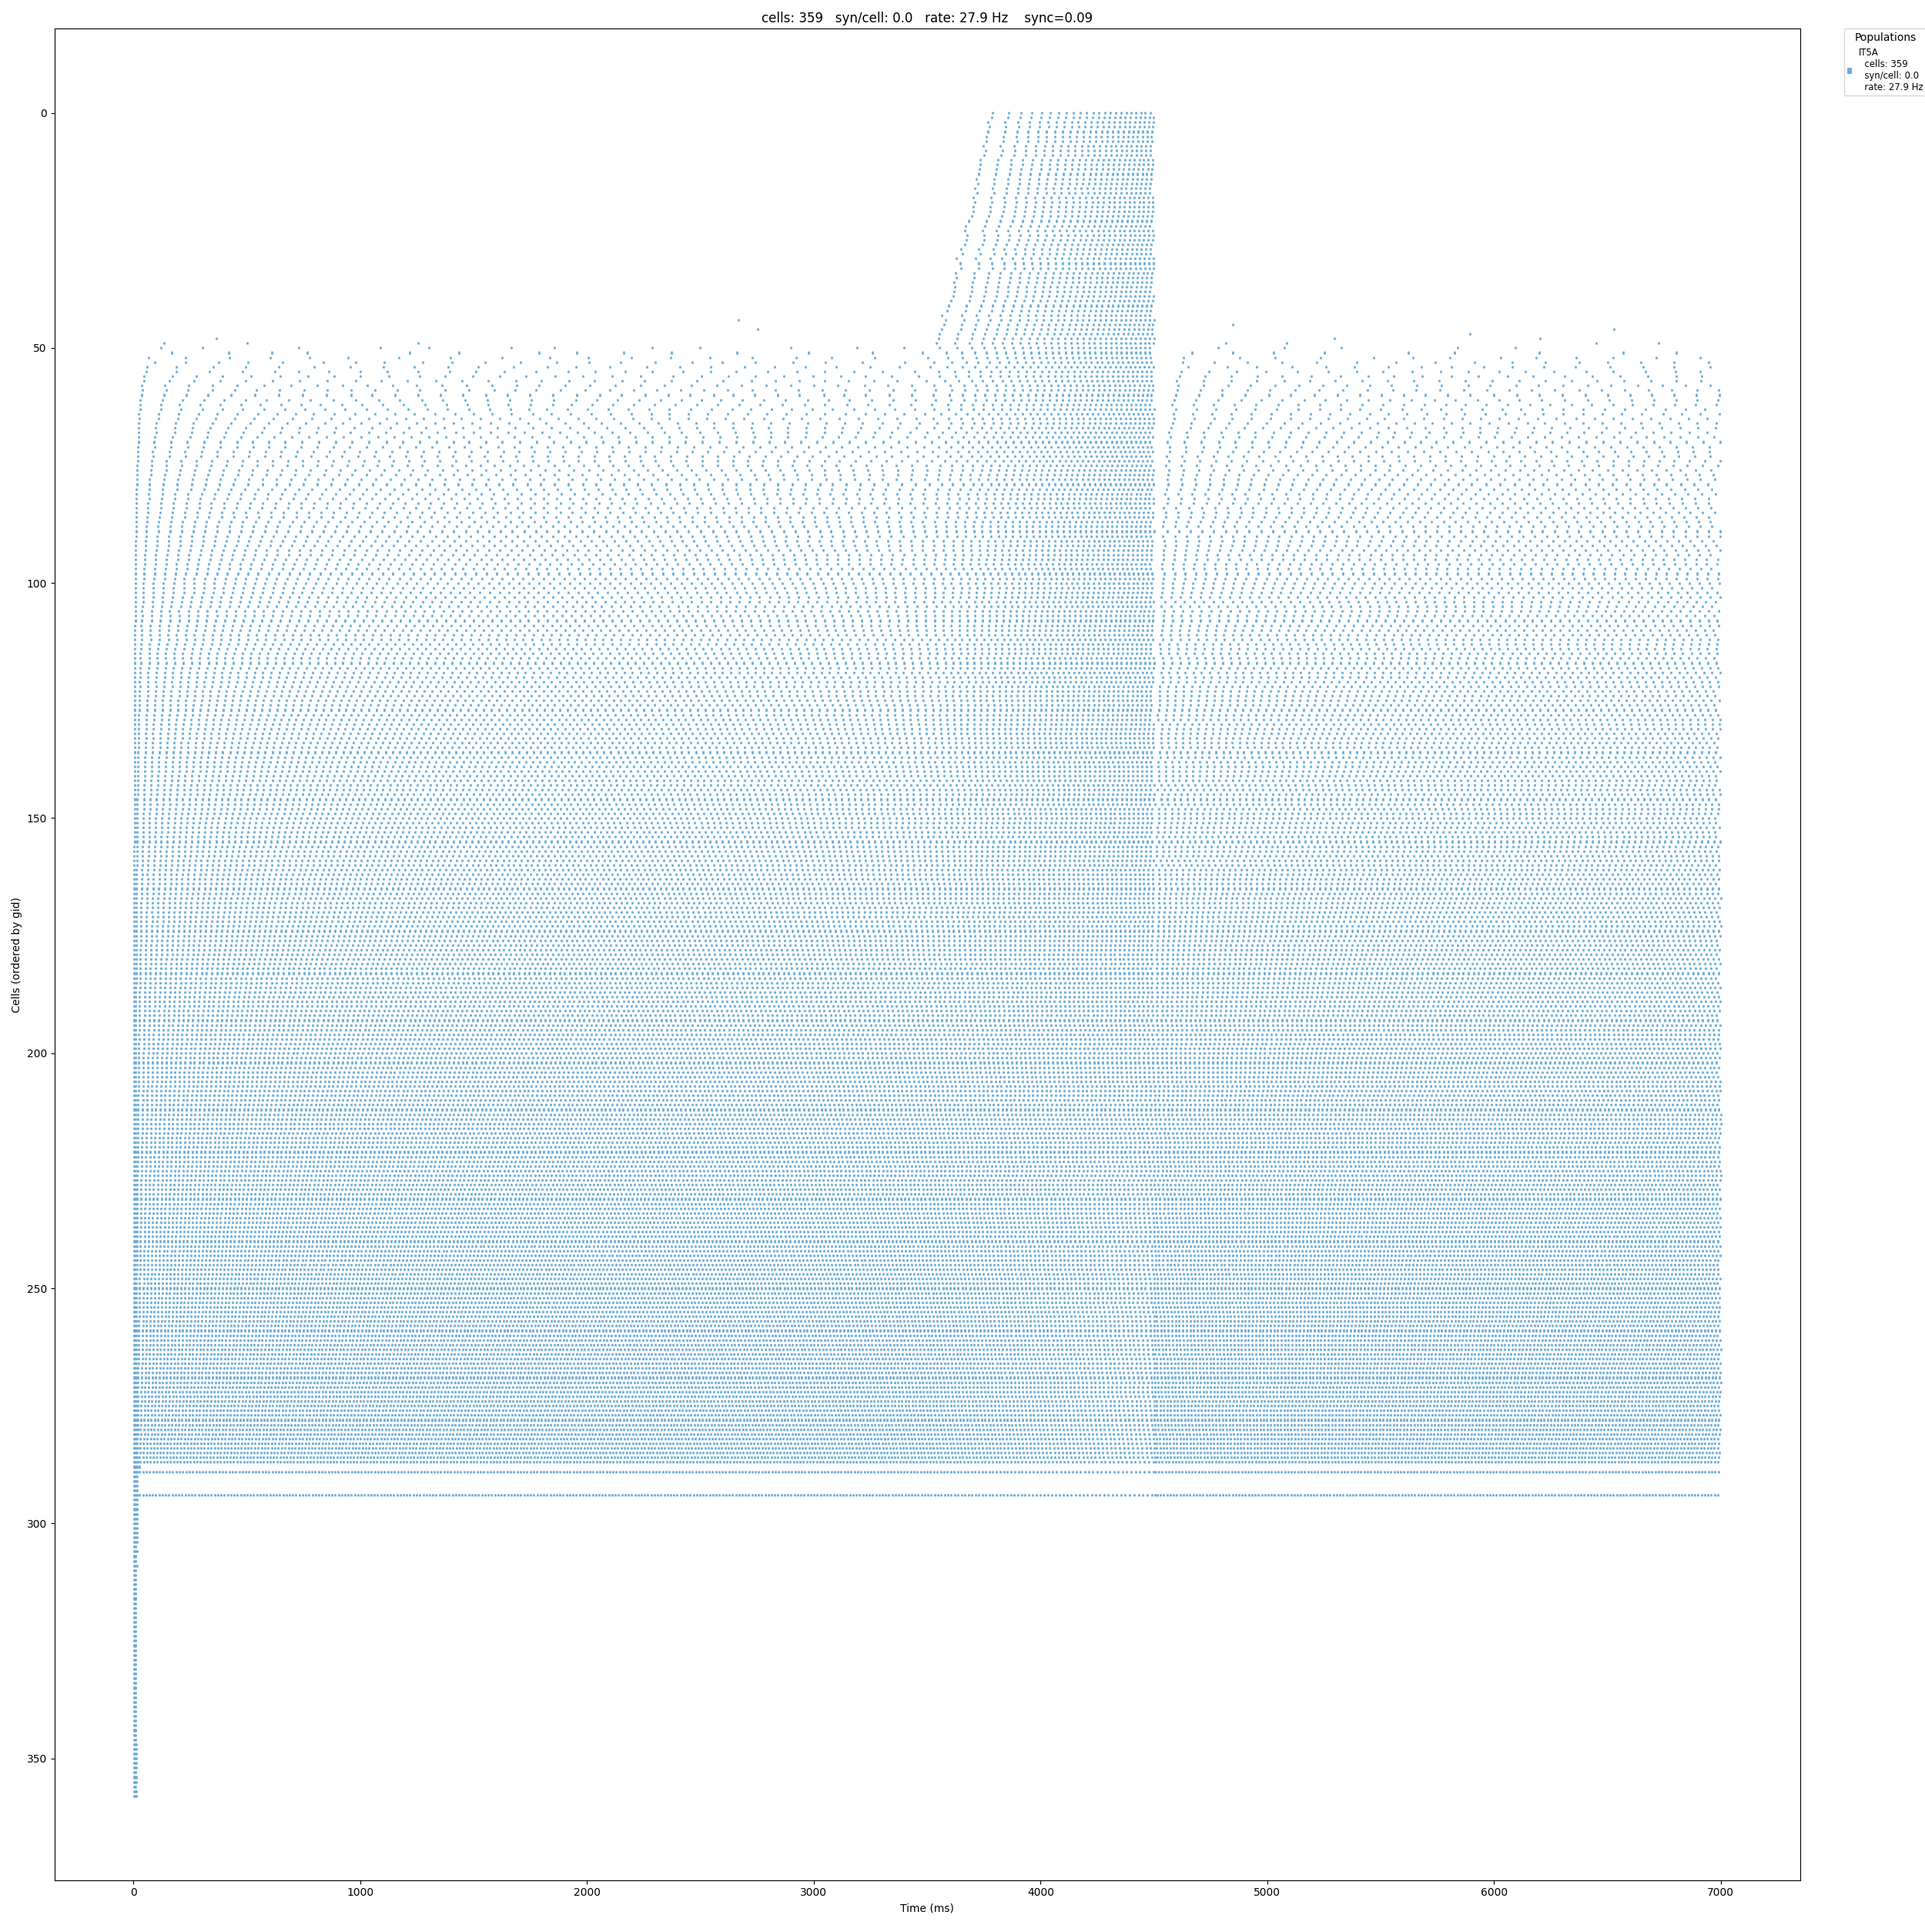
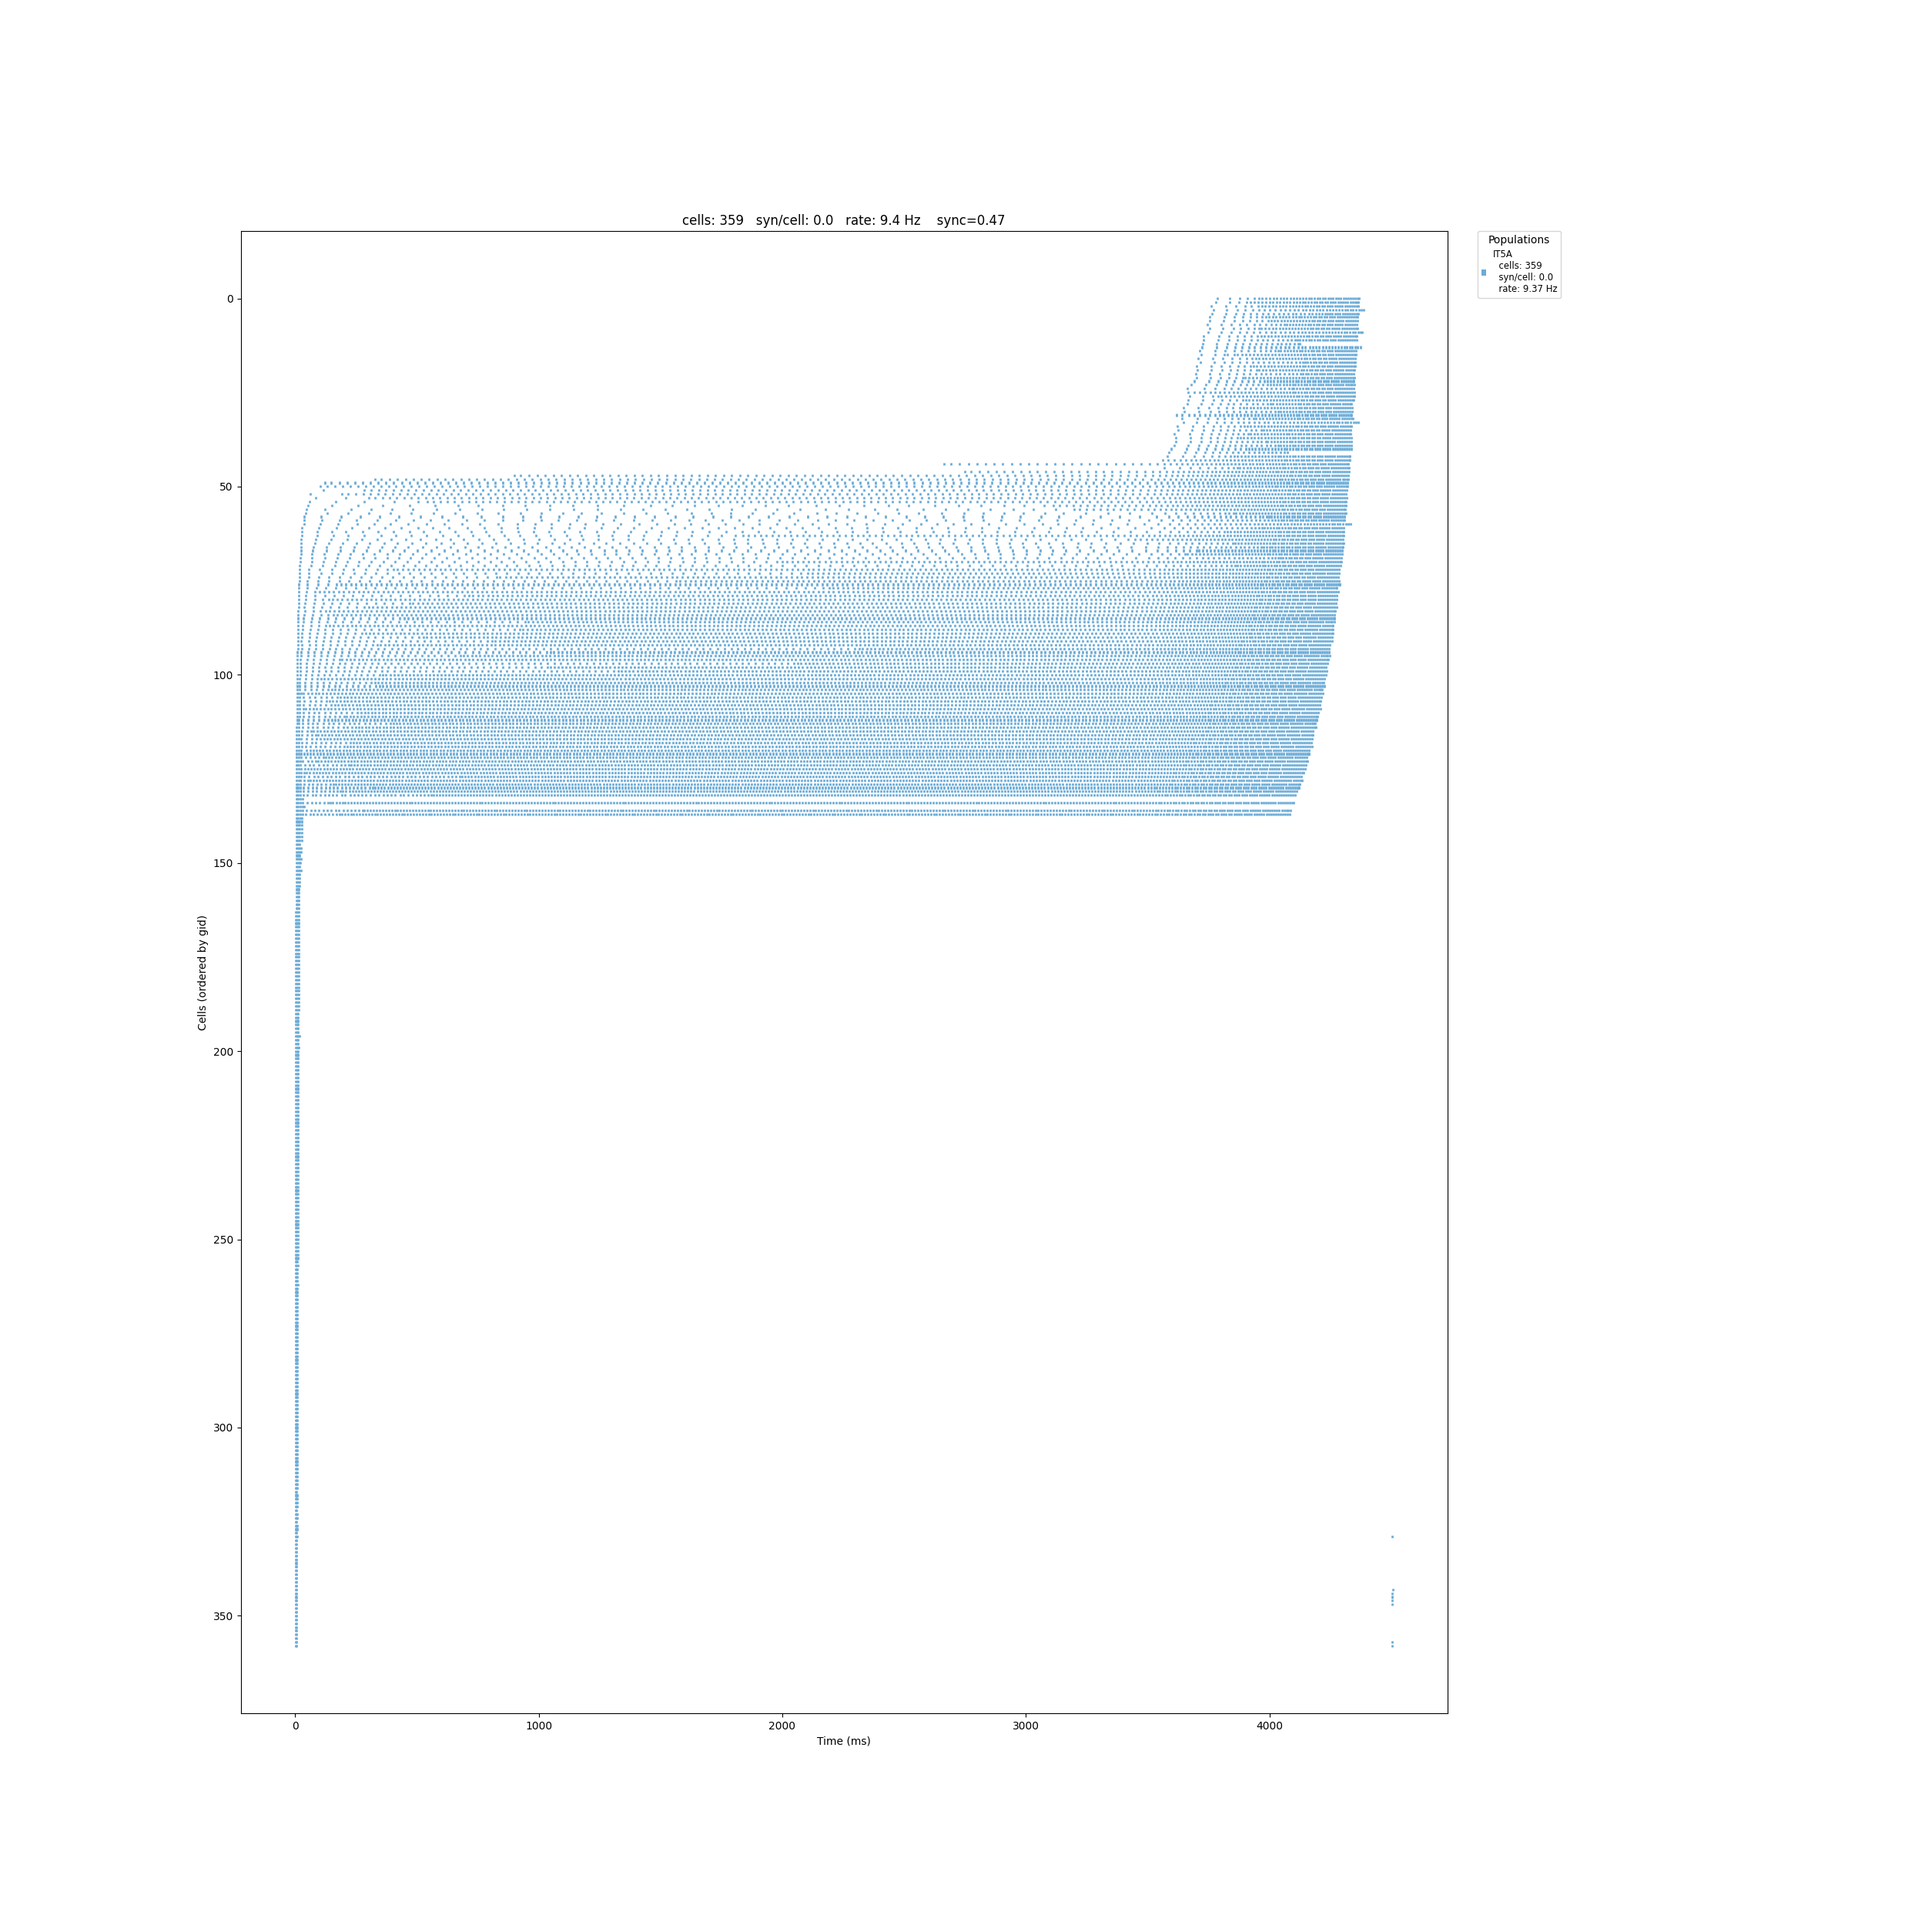
fi-tuning run

Changed region(s): [[0.0624, 0.0624, 0.9048, 0.78], [0.9672, 0.0312, 0.9984, 0.0624], [0.78, 0.1248, 0.8112, 0.156]]

diff --git a/init.py b/init.py
@@ -67,9 +67,12 @@ track = sim
 # Set min/max cell gid for each population
 setdminID(sim, ['IT5A'])
 # debug data
+message = (f"minID output:\n"
+           f"dminID: {sim.simData['dminID']}\n"
+           f"dmaxID: {sim.simData['dmaxID']}\n"
+           f"dnumc : {sim.simData['dnumc']}\n")
 
-
-
+print(message)
 
 # Set cell locations for cochlear cells
 
@@ -170,4 +173,27 @@ if comm.is_host():
 
     # Plot and save f-I curves
     post_run(sim)
+"""
+
+
+"""
+mpiexec -np 5 nrniv -python -mpi init.py  123.86s user 2.59s system 429% cpu 29.457 total
+
+minID output:
+dminID: {'IT5A': np.int64(0)}
+dmaxID: {'IT5A': np.int64(358)}
+dnumc : {'IT5A': np.int64(358)}
+
+Gathering data...
+  Done; gather time = 0.43 s.
+
+Analyzing...
+  Cells: 359
+  Connections: 0 (0.00 per cell)
+  Spikes: 23547 (9.37 Hz)
+  Simulated time: 7.0 s; 5 workers
+  Run time: 20.47 s
+   IT5A : 9.370 Hz
+   
+130.92s user 2.72s system 441% cpu 30.293 total
 """

diff --git a/netParams.py b/netParams.py
@@ -88,6 +88,17 @@ netParams.stimTargetParams[f'NoiseOU_target_{POP}'] = {
         'conds': {'pop': POP}
 }
 
+# not a part of official netpyne code, relevant for background_stim_new ...
+netParams['NoiseOUParams'] = {
+    "IT5A": {
+        "mean": [
+            -0.3145340114979085,
+            2.830806103481176
+        ],
+        "sigma": 0.0
+    }
+}
+
 #------------------------------------------------------------------------------
 # NetStim inputs
 #------------------------------------------------------------------------------
